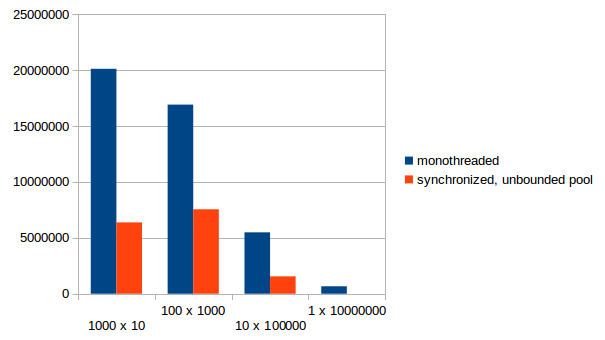
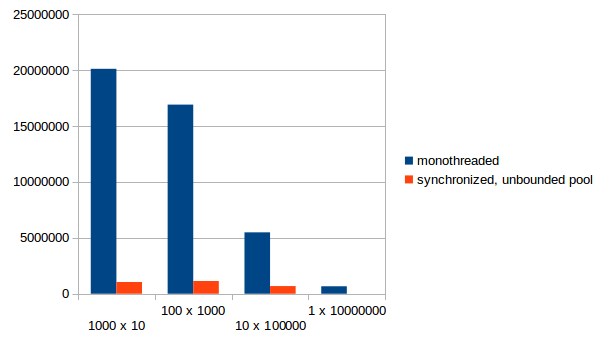
Fix the shutdown method
- wait for full termination before shuting down the pool
- increase the timeouts in the benchmark
- rerun the benchs and update the throughput graphs

Changed region(s): [[0.2975, 0.6176, 0.3868, 0.8235], [0.1785, 0.6471, 0.238, 0.8529], [0.4463, 0.7941, 0.5058, 0.8529]]

diff --git a/src/main/java/net/bourgau/philippe/concurrency/kata/ConcurrentChatRoom.java b/src/main/java/net/bourgau/philippe/concurrency/kata/ConcurrentChatRoom.java
@@ -43,13 +43,23 @@ public class ConcurrentChatRoom implements ChatRoom {
         });
     }
 
-    public void shutdownAndAwaitTermination(int count, TimeUnit timeUnit) throws InterruptedException {
-        threadPool.shutdown();
+    public void awaitOrShutdown(int count, TimeUnit timeUnit) throws InterruptedException {
         try {
             if (!threadPool.awaitTermination(count, timeUnit)) {
+                throw new RuntimeException("All tasks could not be executed");
+            }
+        } finally {
+            shutdown();
+        }
+    }
+
+    private void shutdown() throws InterruptedException {
+        threadPool.shutdown();
+        try {
+            if (!threadPool.awaitTermination(500, TimeUnit.MILLISECONDS)) {
                 threadPool.shutdownNow();
-                if (!threadPool.awaitTermination(count, timeUnit)) {
-                    throw new RuntimeException("Pool did not terminate");
+                if (!threadPool.awaitTermination(500, TimeUnit.MILLISECONDS)) {
+                    throw new RuntimeException("Failed to force stop the thread pool");
                 }
             }
 

diff --git a/src/test/java/net/bourgau/philippe/concurrency/kata/BenchmarkTest.java b/src/test/java/net/bourgau/philippe/concurrency/kata/BenchmarkTest.java
@@ -51,7 +51,7 @@ public class BenchmarkTest {
         }
     }
 
-    @Test(timeout = 15000)
+    @Test(timeout = 60000)
     public void benchmark() throws Exception {
         long startMillis = System.currentTimeMillis();
 
@@ -61,7 +61,7 @@ public class BenchmarkTest {
             }
         }
 
-        shutdown();
+        shutdown(50000);
 
         double duration = (System.currentTimeMillis() - startMillis) / 1000.;
         int outgoingMessages = clientCount * messagePerClientCount * clientCount;
@@ -71,7 +71,7 @@ public class BenchmarkTest {
 
     @After
     public void after_each() throws Exception {
-        shutdown();
+        shutdown(100);
         output.flush();
     }
 
@@ -80,7 +80,7 @@ public class BenchmarkTest {
         output.close();
     }
 
-    private void shutdown() throws InterruptedException {
-        chatRoom.shutdownAndAwaitTermination(7, TimeUnit.SECONDS);
+    private void shutdown(int millis) throws InterruptedException {
+        chatRoom.awaitOrShutdown(millis, TimeUnit.MILLISECONDS);
     }
 }
